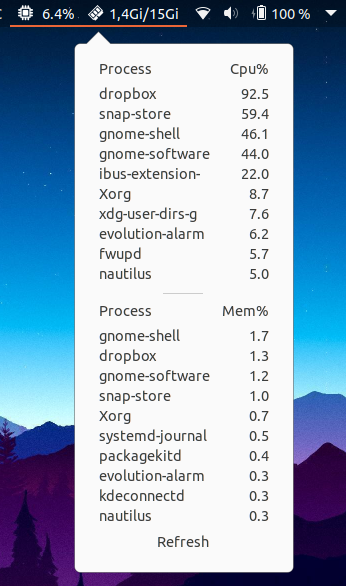
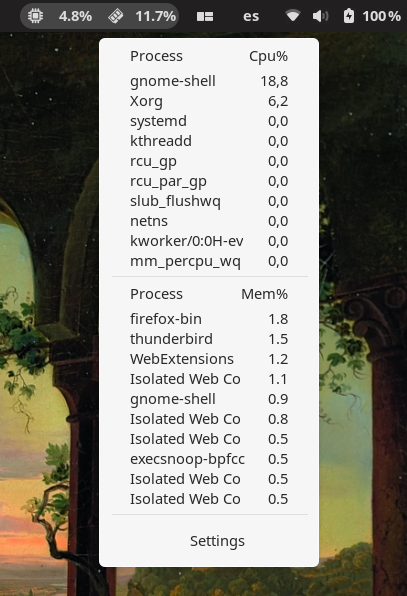
Added an option to get cpu usage from either top or ps. Updated screenshot and translation

diff --git a/extension.js b/extension.js
@@ -220,19 +220,45 @@ class Indicator extends PanelMenu.Button {
             memPanelLabel.set_text(lblStr);
             });
 
-            let cpuPOut = execCommunicate(['ps', 'axch' ,'-o', 'cmd:15,%cpu', '--sort=-%cpu']);
-            cpuPOut.then(function(result) {
-            let procs = result.split("\n");
-            for (i = 0; i < 10; i++) {
-                let cpuSpl = procs[i].split(/[ ]+/);
-                let cpuName = "";
-                for (j = 0; j < cpuSpl.length - 1; j++) {
-                cpuName += cpuSpl[j]+" ";
-                }
-                cpuNameLabels[i].set_text(cpuName);
-                cpulLabels[i].set_text(cpuSpl[cpuSpl.length - 1]);
+            if (_settings.get_boolean('top-or-ps')) {
+                let cpuPOut = execCommunicate(['top', '-b', '-n', '1', '-o', '%CPU', '-w', '100']);
+                cpuPOut.then(function(result) {
+                    let lines = result.split("\n");
+                    let firstLine = 7;
+                    let foundTop = false;
+                    // We run 11 to ignore the top entry that will probably be there
+                    for (i = firstLine; i < firstLine + 11; i++) {
+                        let i_index = i;
+                        if (foundTop) i_index -= 1;
+                        let splits = lines[i].split(/\s+/);
+                        let processName = "";
+                        cpulLabels[i_index-firstLine].set_text(splits[9]);
+                        for (j = 12; j < splits.length; j++) {
+                            processName += splits[j]+" ";
+                        }
+                        processName = processName.substring(0, 15);
+                        cpuNameLabels[i_index-firstLine].set_text(processName);
+                        if (processName.substring(0,3) == "top") {
+                            foundTop = true;
+                        }
+                    }
+                });
             }
-            });
+            else {
+                let cpuPOut = execCommunicate(['ps', 'axch' ,'-o', 'cmd:15,%cpu', '--sort=-%cpu']);
+                cpuPOut.then(function(result) {
+                    let procs = result.split("\n");
+                    for (i = 0; i < 10; i++) {
+                        let cpuSpl = procs[i].split(/[ ]+/);
+                        let cpuName = "";
+                        for (j = 0; j < cpuSpl.length - 1; j++) {
+                            cpuName += cpuSpl[j]+" ";
+                        }
+                        cpuNameLabels[i].set_text(cpuName);
+                        cpulLabels[i].set_text(cpuSpl[cpuSpl.length - 1]);
+                    }
+                });
+            }
 
             let memPOut = execCommunicate(['ps', 'axch' ,'-o', 'cmd:15,%mem', '--sort=-%mem']);
             memPOut.then(function(result) {

diff --git a/prefs.js b/prefs.js
@@ -27,18 +27,25 @@ var MonitorPrefs = new GObject.registerClass(class SimpleMonitorPrefs extends Gt
 
         this._addSwitch({
             key: 'mem-perc', y: 0, x: 0,
-            label: _('Show memory percentage')
+            label: _('Show memory percentage'),
+            help: _('If on, memory usage is shown as percentage of total. If off, it is shown as used GiB')
+        });
+
+        this._addButtons({
+            key: 'top-or-ps', y: 1, x: 0,
+            label: _('Get processes CPU usage from \'top\''),
+            help: _('If on, top is used, if of, ps is used. Top gets usage in a short period of time, ps gets cumulative usage since process started')
         });
 
         let spinBLabel = new Gtk.Label({ label: _('Update every (Sec)'), halign: Gtk.Align.END });
-        this.attach(spinBLabel, 0, 1, 1, 1);
+        this.attach(spinBLabel, 0, 2, 1, 1);
         let spinButton = new Gtk.SpinButton();
         spinButton.set_sensitive(true);
         spinButton.set_range(1, 10);
         spinButton.set_value(2);
         spinButton.set_increments(1, 2);
         this._settings.bind('sec-update', spinButton, 'value', Gio.SettingsBindFlags.DEFAULT);
-        this.attach(spinButton, 1, 1, 1, 1)
+        this.attach(spinButton, 1, 2, 1, 1)
     }
 
     _addSwitch(params) {
@@ -52,6 +59,19 @@ var MonitorPrefs = new GObject.registerClass(class SimpleMonitorPrefs extends Gt
             sw.set_tooltip_text(params.help);
         }
         this._settings.bind(params.key, sw, 'active', Gio.SettingsBindFlags.DEFAULT);
+    }
+
+    _addButtons(params) {
+        let lbl = new Gtk.Label({ label: params.label, halign: Gtk.Align.END });
+        this.attach(lbl, params.x, params.y, 1, 1);
+        let btn = new Gtk.Switch({halign:Gtk.Align.END, valign: Gtk.Align.CENTER });
+        this.attach(btn, params.x+1, params.y, 1, 1);
+
+        if (params.help) {
+            lbl.set_tooltip_text(params.help);
+            btn.set_tooltip_text(params.help);
+        }
+        this._settings.bind(params.key, btn, 'active', Gio.SettingsBindFlags.DEFAULT);
     }
 
 });
